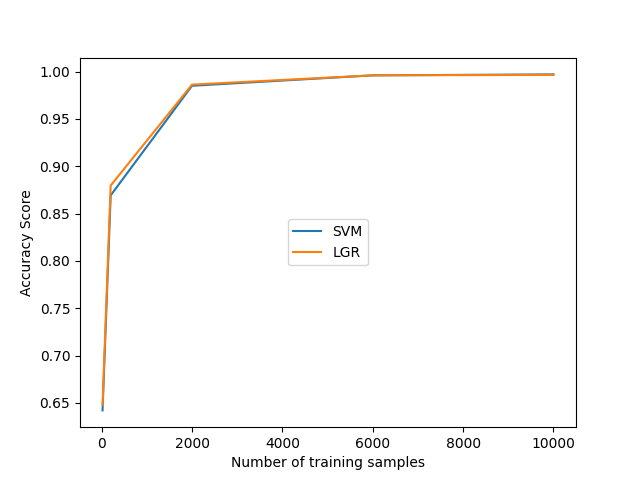
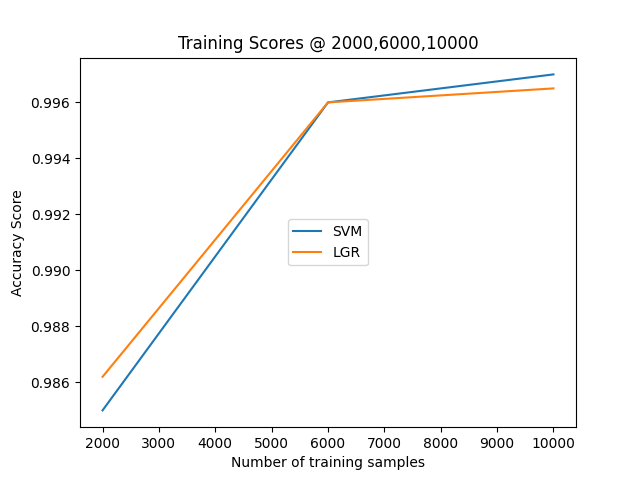
Added High Performance Training Models

diff --git a/final_project_solution.py b/final_project_solution.py
@@ -242,7 +242,7 @@ def evaluate_ml_models(challenges, responses):
     scores_lgr = []
 
     # Test the model accuracy over several different training data sizes
-    training_samples = [20, 200, 2000, 6000, 10000]
+    training_samples = [2000, 6000, 10000]
     for i in training_samples:
 
         # Split CRP data into training and test data
@@ -264,6 +264,7 @@ def evaluate_ml_models(challenges, responses):
     plt.xlabel("Number of training samples")
     plt.ylabel("Accuracy Score")
     plt.legend(loc='center')
+    plt.title("Training Scores @ 2000,6000,10000")
     plt.savefig('graphs\TrainingScores.png')
     plt.clf()
 
@@ -317,6 +318,51 @@ def find_eighty_percent(challenges, responses):
     plt.savefig('graphs\EightyPercentScores.png')
     plt.clf()
 
+# Machine Model Evaluations
+def detailed_model_scores(challenges, responses):
+    # Record model performance over training data sizes
+    scores_svc = []
+    scores_lgr = []
+
+    # Test the model accuracy over several different training data sizes
+    high = int(len(challenges)*.95)
+    low = int(len(challenges)*.008)
+    step = 50
+    training_samples = list(range(low, high, step))
+    for i in training_samples:
+
+        # Split CRP data into training and test data
+        x_train, x_test, y_train, y_test = split_data(challenges, responses, train_sample_size = i)
+        print(len(x_train))
+
+        # Train and measure the fit of each model
+        # Determine whether or not we want to find the best default values
+        training_yes_no = False
+        print_matrix = True
+        scores_svc.append(svc(x_train, x_test, y_train, y_test, training_yes_no))
+        scores_lgr.append(lgr(x_train, x_test, y_train, y_test, training_yes_no))
+
+
+    high_perf_index = []
+    for index, i in enumerate(scores_svc):
+        if i > .9:
+            high_perf_index.append(index)
+    for index, i in enumerate(scores_lgr):
+        if i > .9:
+            high_perf_index.append(index)
+   
+    if scores_svc:
+        plt.plot(training_samples[min(high_perf_index):], scores_svc[min(high_perf_index):], label="SVM")
+    if scores_lgr:
+        plt.plot(training_samples[min(high_perf_index):], scores_lgr[min(high_perf_index):], label="LGR")
+
+    plt.xlabel("Number of training samples")
+    plt.ylabel("Accuracy Score")
+    plt.title("Performance above 90% Accuracy")
+    plt.legend(loc='center')
+    plt.savefig('graphs\HighPerfTrainingScores.png')
+    plt.clf()
+
 
 
 def main():
@@ -327,6 +373,7 @@ def main():
     challenges, responses = extract_sets(transform=True)
     evaluate_ml_models(challenges, responses)
     find_eighty_percent(challenges, responses)
+    detailed_model_scores(challenges, responses)
 
 
 if __name__ == "__main__":
